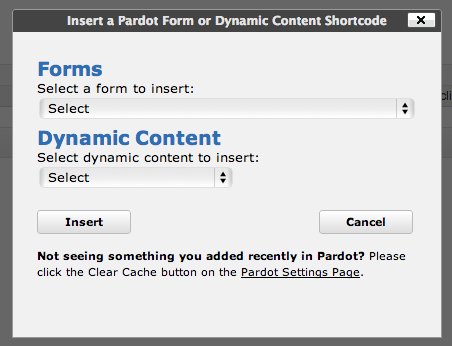
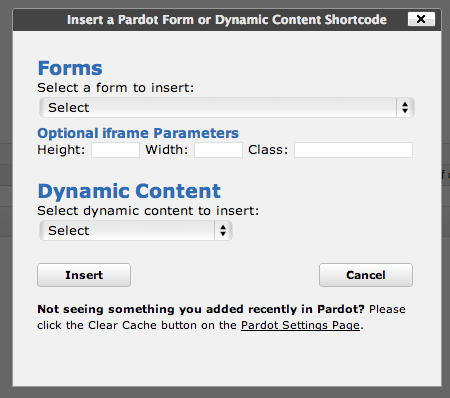
Add height, width, and class options and add class by default to form iframes

diff --git a/trunk/includes/pardot-forms-shortcode-popup-class.php b/trunk/includes/pardot-forms-shortcode-popup-class.php
@@ -69,7 +69,20 @@ var PardotShortcodePopup = {
 	init:function() {},
 	insert:function() {
 		if ( ( jQuery('#formshortcode').length != 0 ) && ( jQuery('#formshortcode').val() != '0' ) ) {
-			tinyMCEPopup.editor.execCommand('mceInsertContent',false,jQuery('#formshortcode').val());
+			var formval = jQuery('#formshortcode').val();
+			var formheight = jQuery('#formh').val();
+			if ( formheight ) {
+				formval = formval.replace('pardot-form', 'pardot-form height="'+formheight+'"')
+			}
+			var formwidth = jQuery('#formw').val();
+			if ( formwidth ) {
+				formval = formval.replace('pardot-form', 'pardot-form width="'+formwidth+'"')
+			}
+			var formclass = jQuery('#formc').val();
+			if ( formclass ) {
+				formval = formval.replace('pardot-form', 'pardot-form class="'+formclass+'"')
+			}
+			tinyMCEPopup.editor.execCommand('mceInsertContent',false,formval);
 		}
 		if ( ( jQuery('#dcshortcode').length != 0 ) && ( jQuery('#dcshortcode').val() != '0' ) ) {
 			tinyMCEPopup.editor.execCommand('mceInsertContent',false,jQuery('#dcshortcode').val());
@@ -152,7 +165,7 @@ HTML;
 		 */
 		$formsec = __( 'Forms', 'pardot' );
 		$labelform = __( 'Select a form to insert', 'pardot' );
-		$formcust = __( 'Custom iframe Parameters', 'pardot' );
+		$formcust = __( 'Optional iframe Parameters', 'pardot' );
 		$labelformh = __( 'Height', 'pardot' );
 		$labelformw = __( 'Width', 'pardot' );
 		$labelformc = __( 'Class', 'pardot' );
@@ -185,7 +198,7 @@ HTML;
 		<label for="formw">{$labelformw}</label>:
 		<input type="text" size="6" id="formw" name="formw" />
 		<label for="formc">{$labelformc}</label>:
-		<input type="text" id="formhc" name="formc"/>
+		<input type="text" id="formc" name="formc"/>
 		<br clear="all" />
 		<br />
 		<h2>{$dcsec}</h2>

diff --git a/trunk/pardot.php b/trunk/pardot.php
@@ -7,7 +7,7 @@
  * Plugin URI: http://wordpress.org/extend/plugins/pardot/
  * Developer: Mike Schinkel of NewClarity LLC
  * Developer URI: http://newclarity.net
- * Version: 1.1.5
+ * Version: 1.2
  * License: GPLv2
  *
  * Copyright 2012 Pardot LLC
@@ -28,7 +28,7 @@
  */
 
 define( 'PARDOT_PLUGIN_DIR', dirname( __FILE__ ) );
-define( 'PARDOT_PLUGIN_VER', '1.1.5' );
+define( 'PARDOT_PLUGIN_VER', '1.2' );
 
 if ( ! defined( 'PARDOT_FORM_INCLUDE_TYPE' ) )
 	define( 'PARDOT_FORM_INCLUDE_TYPE', 'iframe' );	// iframe or inline

diff --git a/trunk/includes/pardot-forms-widget-class.php b/trunk/includes/pardot-forms-widget-class.php
@@ -439,7 +439,7 @@ HTML;
 		
 		$html .= '<p><label for="' . $this->get_field_id( "title" ) . '">' . __( 'Title:' ) . '</label><input class="widefat" id="' . $this->get_field_id( "title" ) . '" name="' . $this->get_field_name( "title" ) . '" type="text" value="' . esc_attr( $title ) . '" /></p>';
 		
-		$html .= '<p><strong>Customize iframe Parameters</strong></p>';
+		$html .= '<p><strong>Optional iframe Parameters</strong></p>';
 		
 		if ( isset( $instance[ 'height' ] ) ) {
 			$height = $instance[ 'height' ];

diff --git a/README.md b/README.md
@@ -30,11 +30,19 @@ Two simple shortcodes are available for use.
 
 #### Form Shortcode ####
 
-`[pardot-form id="{Form ID}" title="{Form Name}" height="500px"]`
+`[pardot-form id="{Form ID}" title="{Form Name}" class="" width="100%" height="500"]`
 
-Use `[pardot-form]` with at least the `id` parameter. You can include the `title` parameter that is included when using the toolbar button, but it's not required for display. For instance, `[pardot-form id="1" title="Title"]` renders my Pardot form with an ID of 1.
+Use `[pardot-form]` with at least the `id` parameter. For instance, `[pardot-form id="1" title="Title"]` renders my Pardot form with an ID of 1.
 
-You can include a height explicitly in pixels or percentage, else it defaults to 500px. For instance `[pardot-form id="1" title="Title" height="300px"]` will make the iframe 300px tall. You could also do something like `[pardot-form id="1" title="Title" height="100%"]`.
+Optional parameters:
+
+The `title` parameter is included when using the toolbar button, but it's not required for display. There is no default.
+
+The `class` parameter allows you to add additonal classes to the iframe element. There is no default, but the class `pardotform` is now automatically added, regardless of any additional classes.
+
+The `width` parameter will set the width of the iframe in pixels or percentage. For example, "500", "500px", and "80%" are all valid. The default is 100%.
+
+The `height` parameter will set the height of the iframe in pixels only. For example, "500" or "500px" are valid. The default is 500px.
 
 #### Dynamic Content Shortcode ####
 
@@ -80,6 +88,11 @@ A width of 150px is just a starting point. Adjust this value until it fits on yo
 Go to Settings > Pardot Settings and click 'Reset Cache'. This should reinitialize and update your Pardot content.
 
 ## Changelog ##
+
+### 1.2 ###
+
+1. Added ability to specify height, width, and class on the form
+1. Added class 'pardotform' to every iframe for easier styling
 
 ### 1.1.5 ###
 
